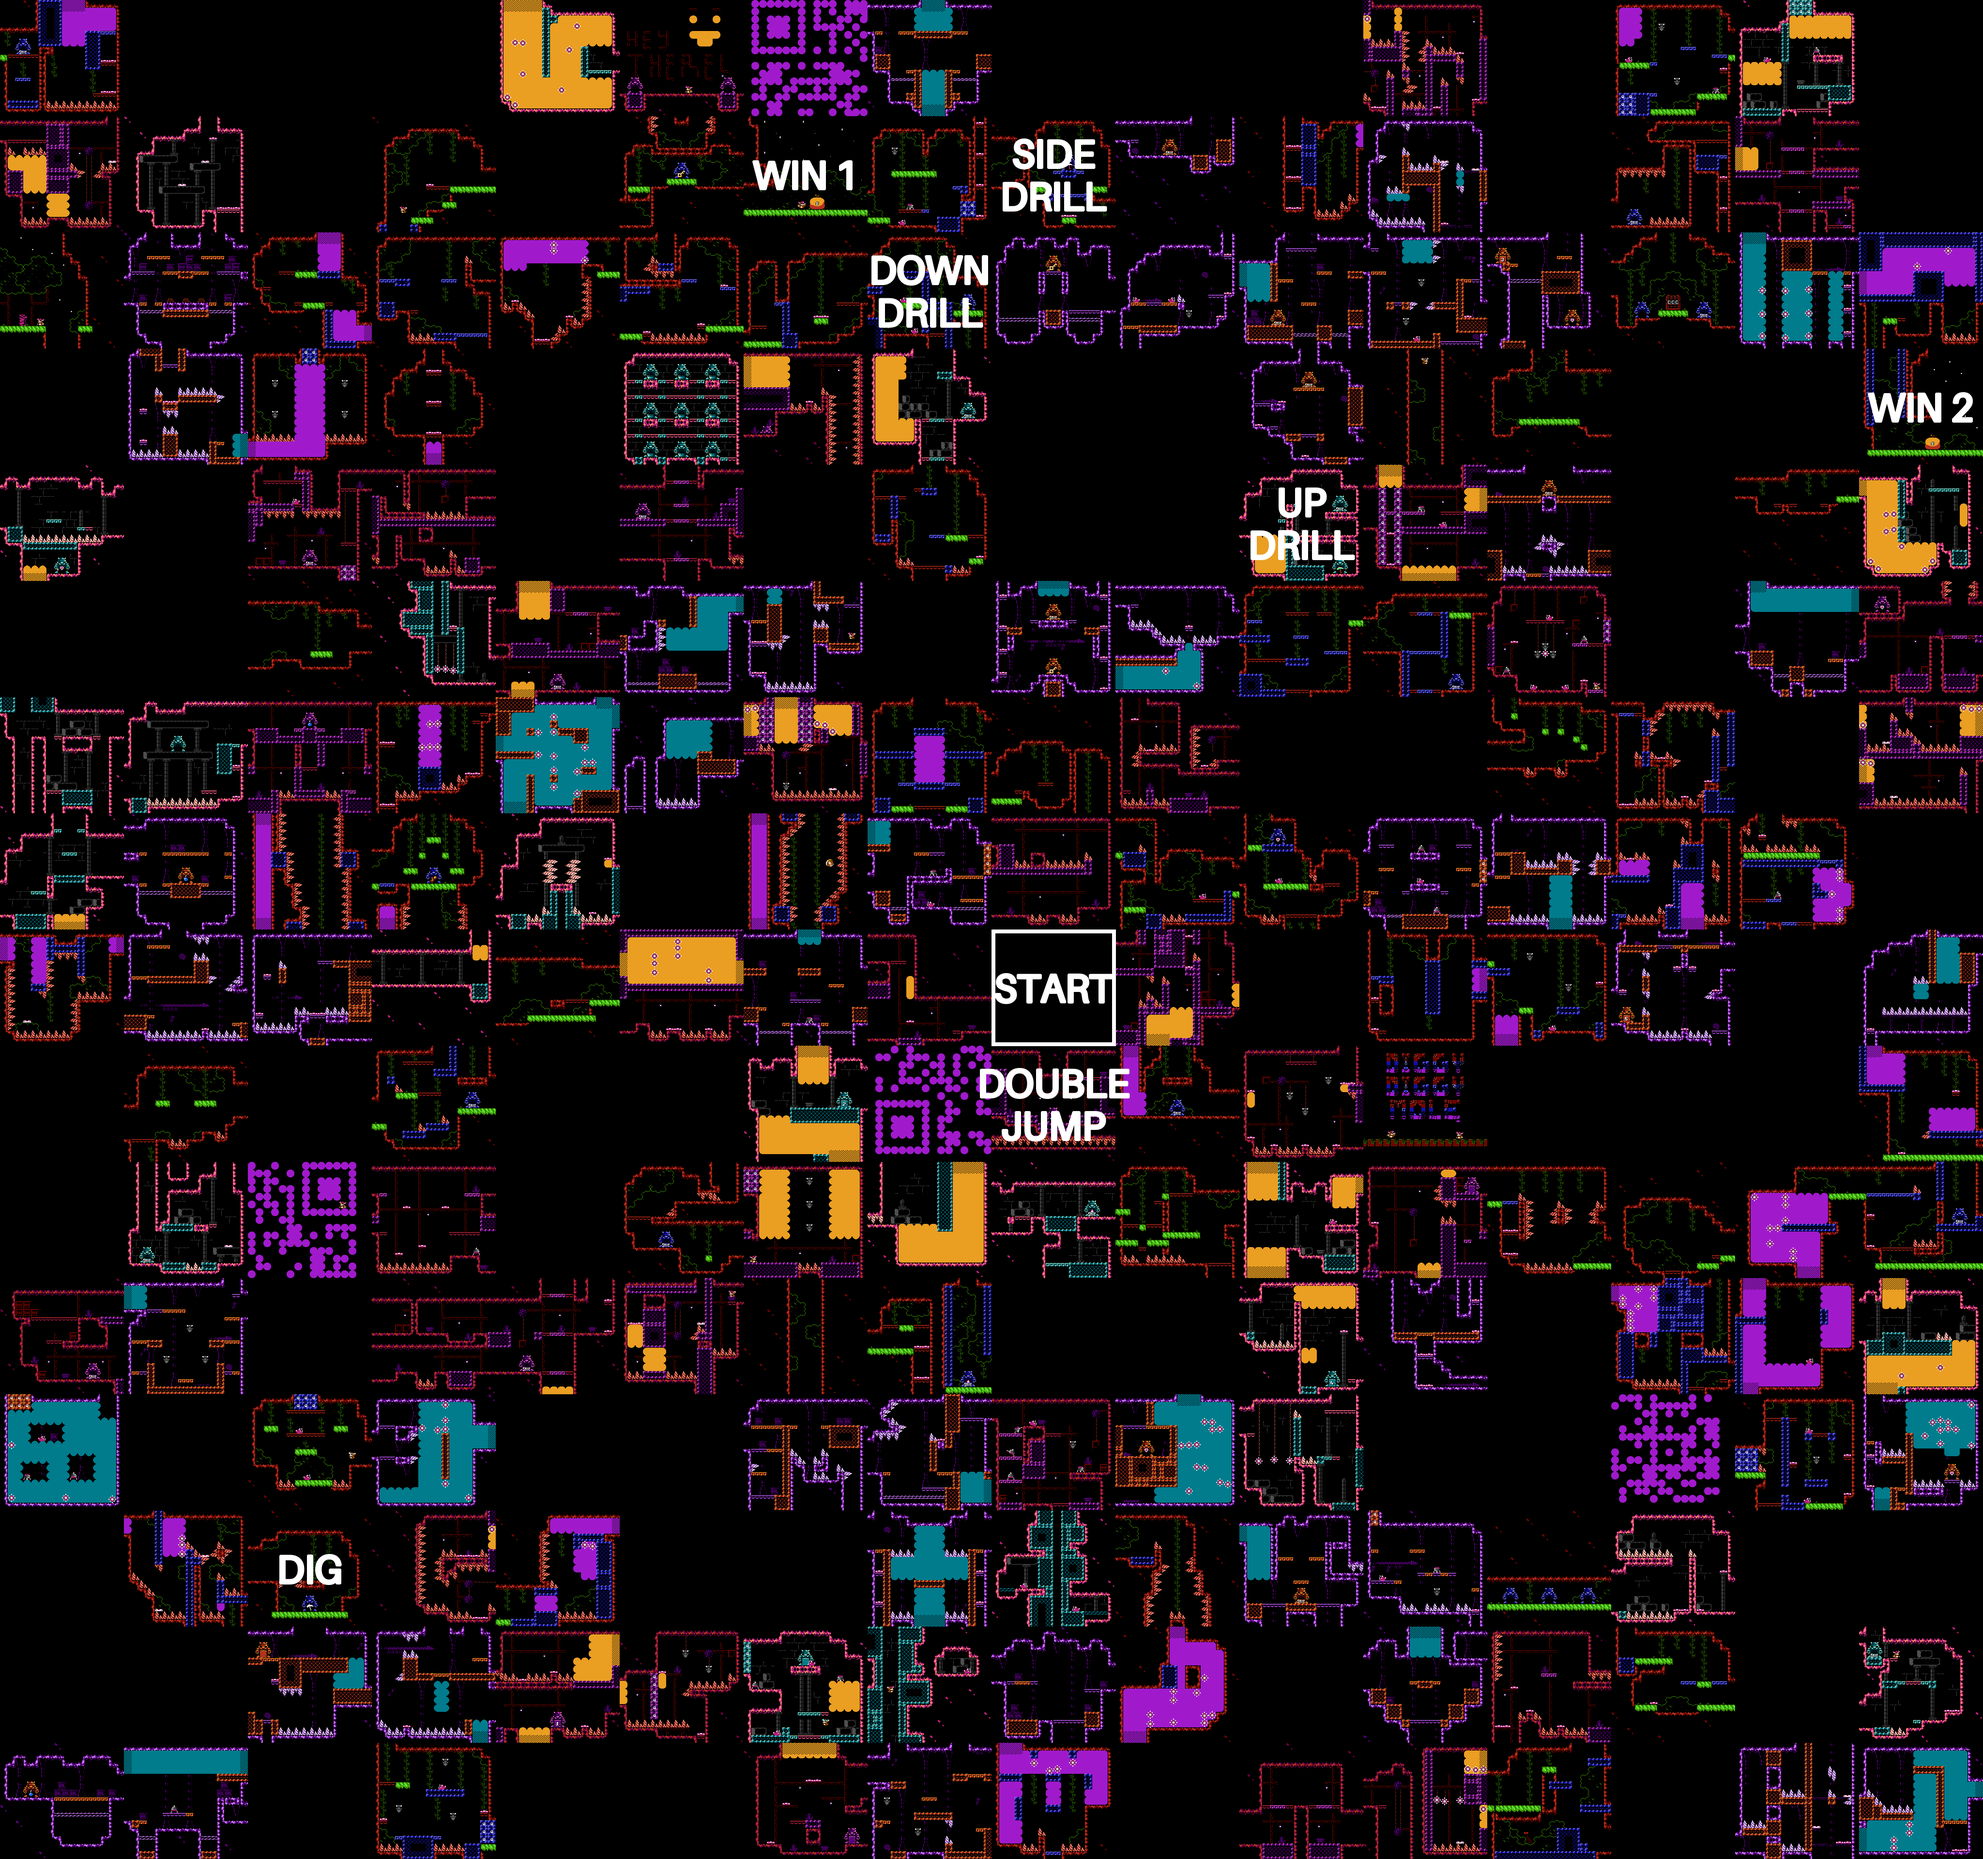
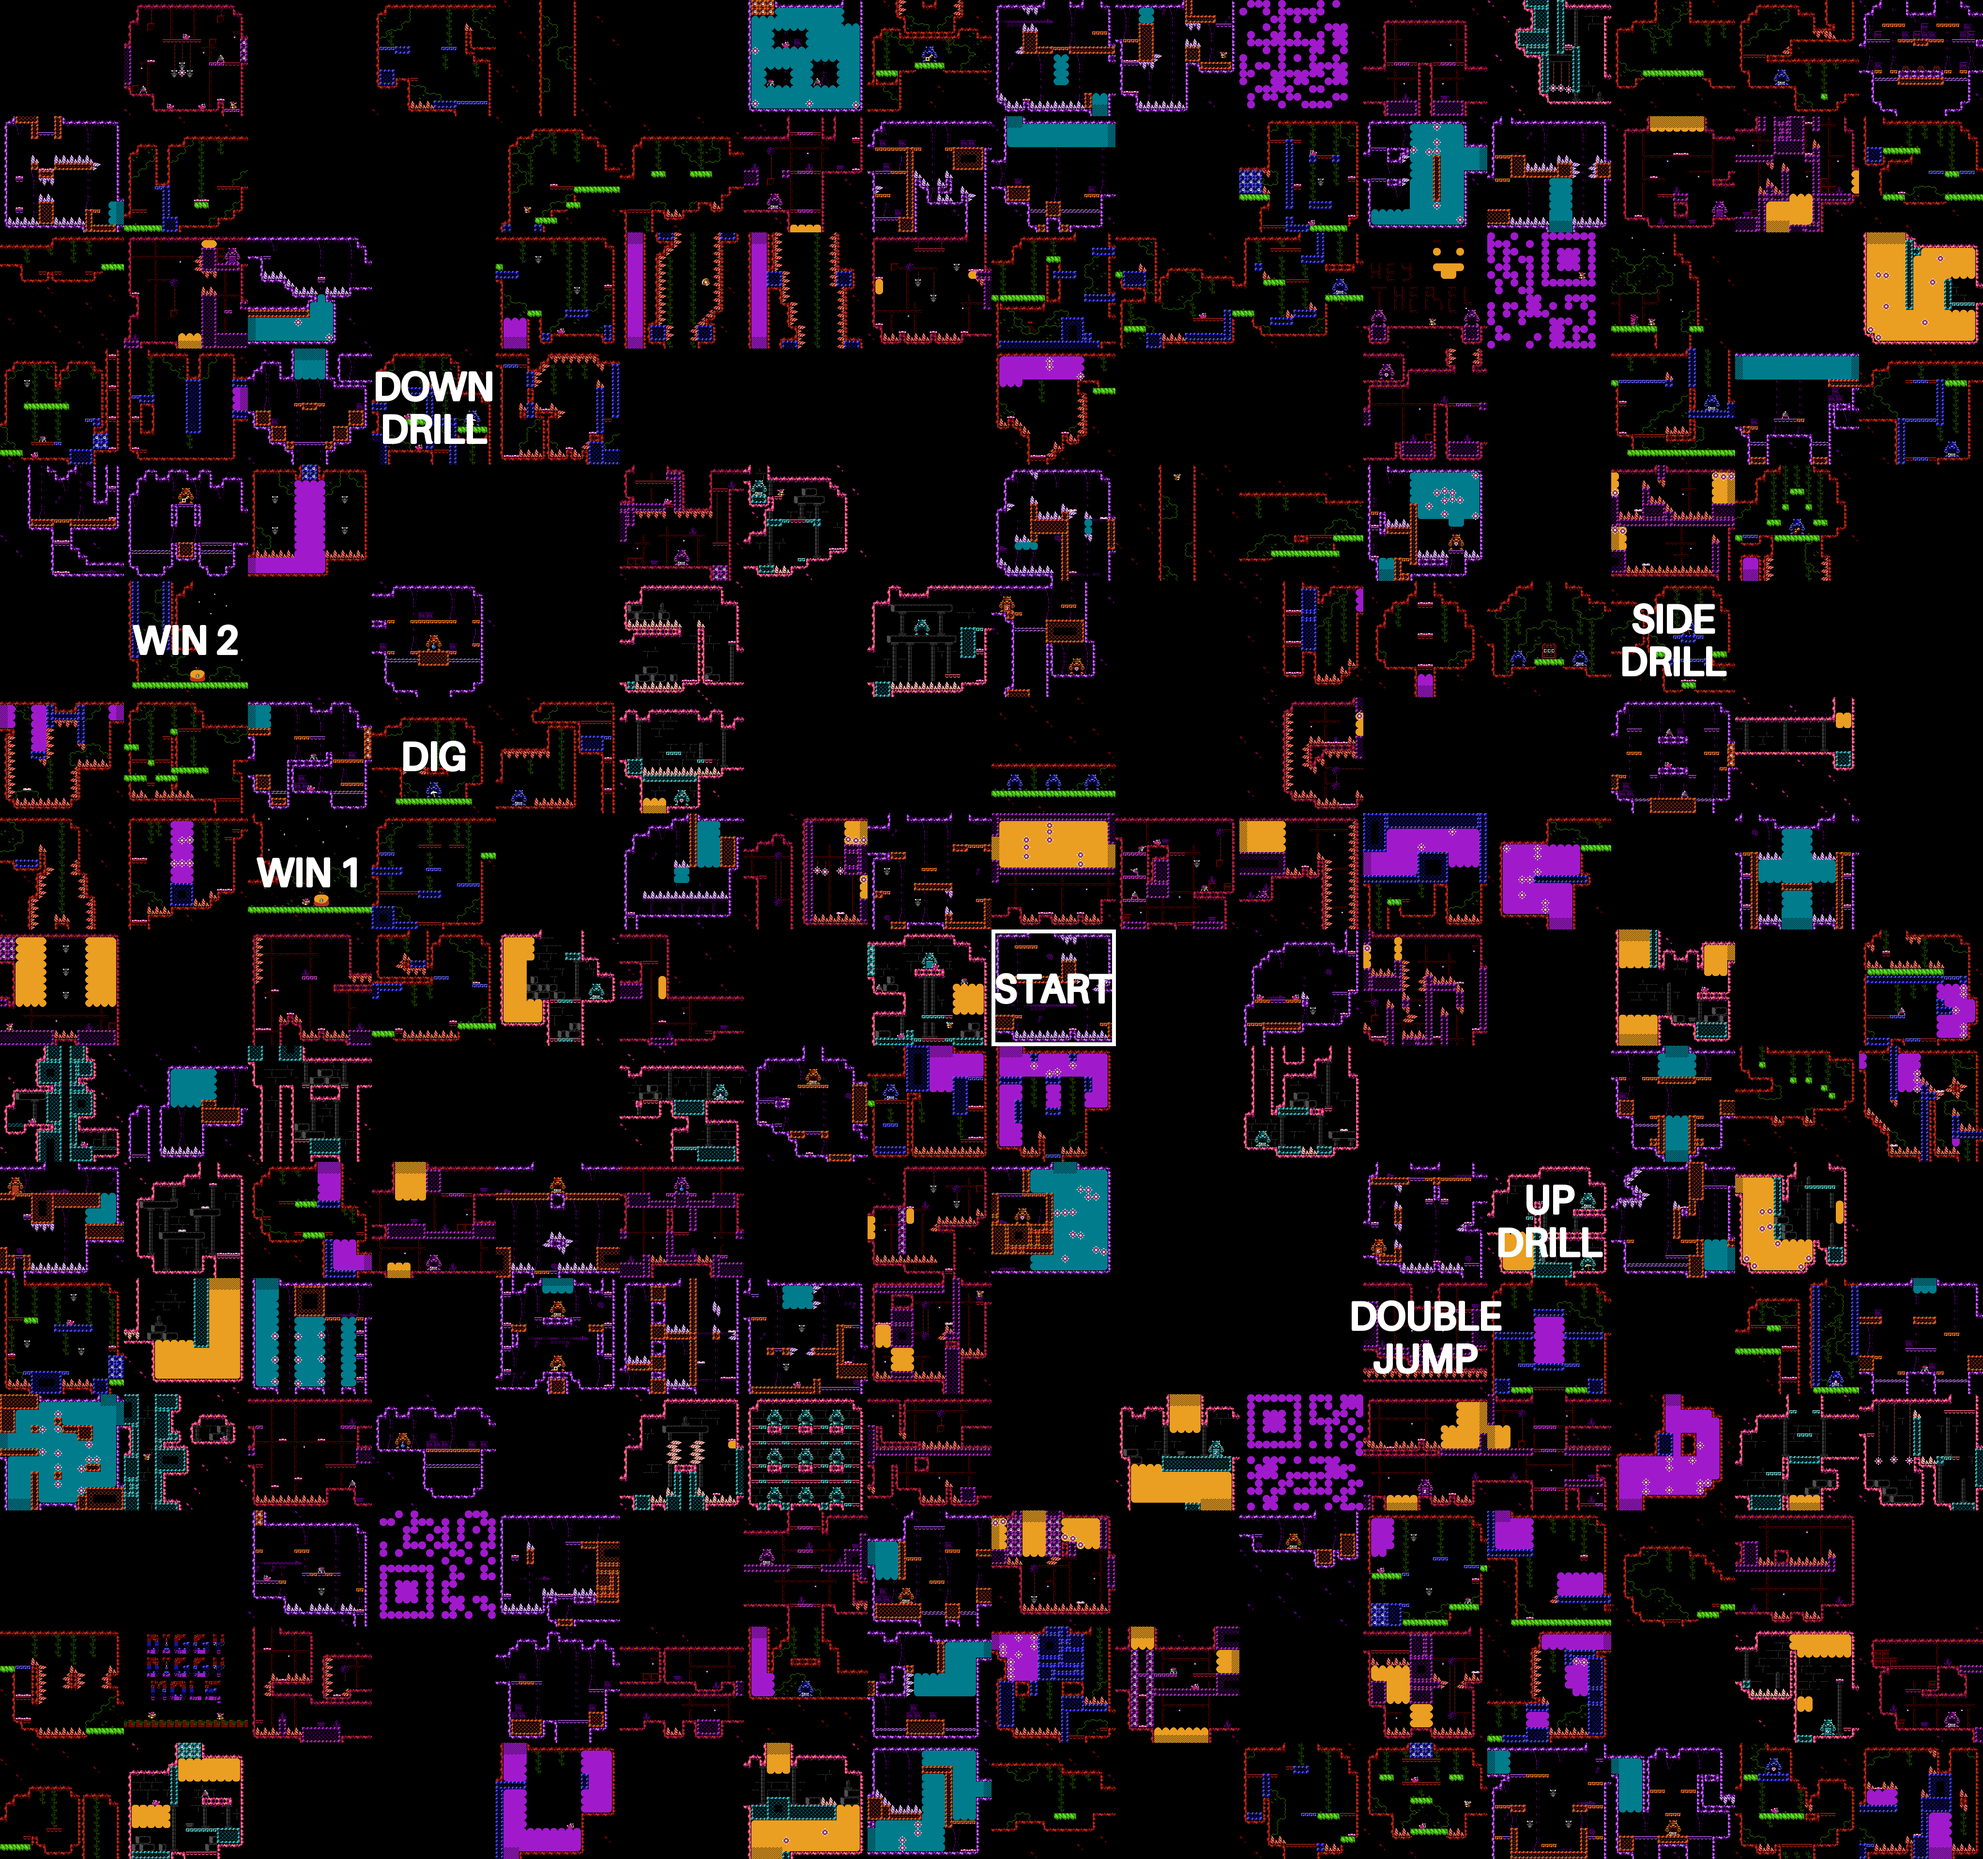
using custom random function for longevity

Changed region(s): [[0.0, 0.0, 1.0, 1.0]]

diff --git a/randomizer/randomize.py b/randomizer/randomize.py
@@ -1,10 +1,19 @@
 import random
 import sys
 
+seed = 50
 if len(sys.argv) > 1:
-    random.seed(int(sys.argv[1]))
-else:
-    random.seed(50)
+    seed = int(sys.argv[1])
+
+random_state = seed
+
+# Xorshift psuedorandom algorithm copied from https://en.wikipedia.org/wiki/Xorshift.
+def random():
+    global random_state
+    random_state ^= random_state << 13
+    random_state ^= random_state >> 17
+    random_state ^= random_state << 5
+    return random_state
 
 rooms = [i for i in range(256)]
 
@@ -14,7 +23,7 @@ def swap(arr, i1, i2):
     arr[i2] = temp
 
 for i in range(len(rooms)):
-    swap(rooms, i, random.randint(0, 255))
+    swap(rooms, i, random() & 0xFF )
 
 end1 = 0x06
 end2 = 0xFE
@@ -69,7 +78,7 @@ out += "double_jump = " + hex(double_jump_new).upper() + "\n"
 out += "side_drill = " + hex(side_drill_new).upper() + "\n"
 # print(out)
 
-with open("DDM Randomizer.lua", "r+") as f:
+with open("ddm_randomizer.lua", "r+") as f:
     f.seek(0)
     f.write(out)
 
